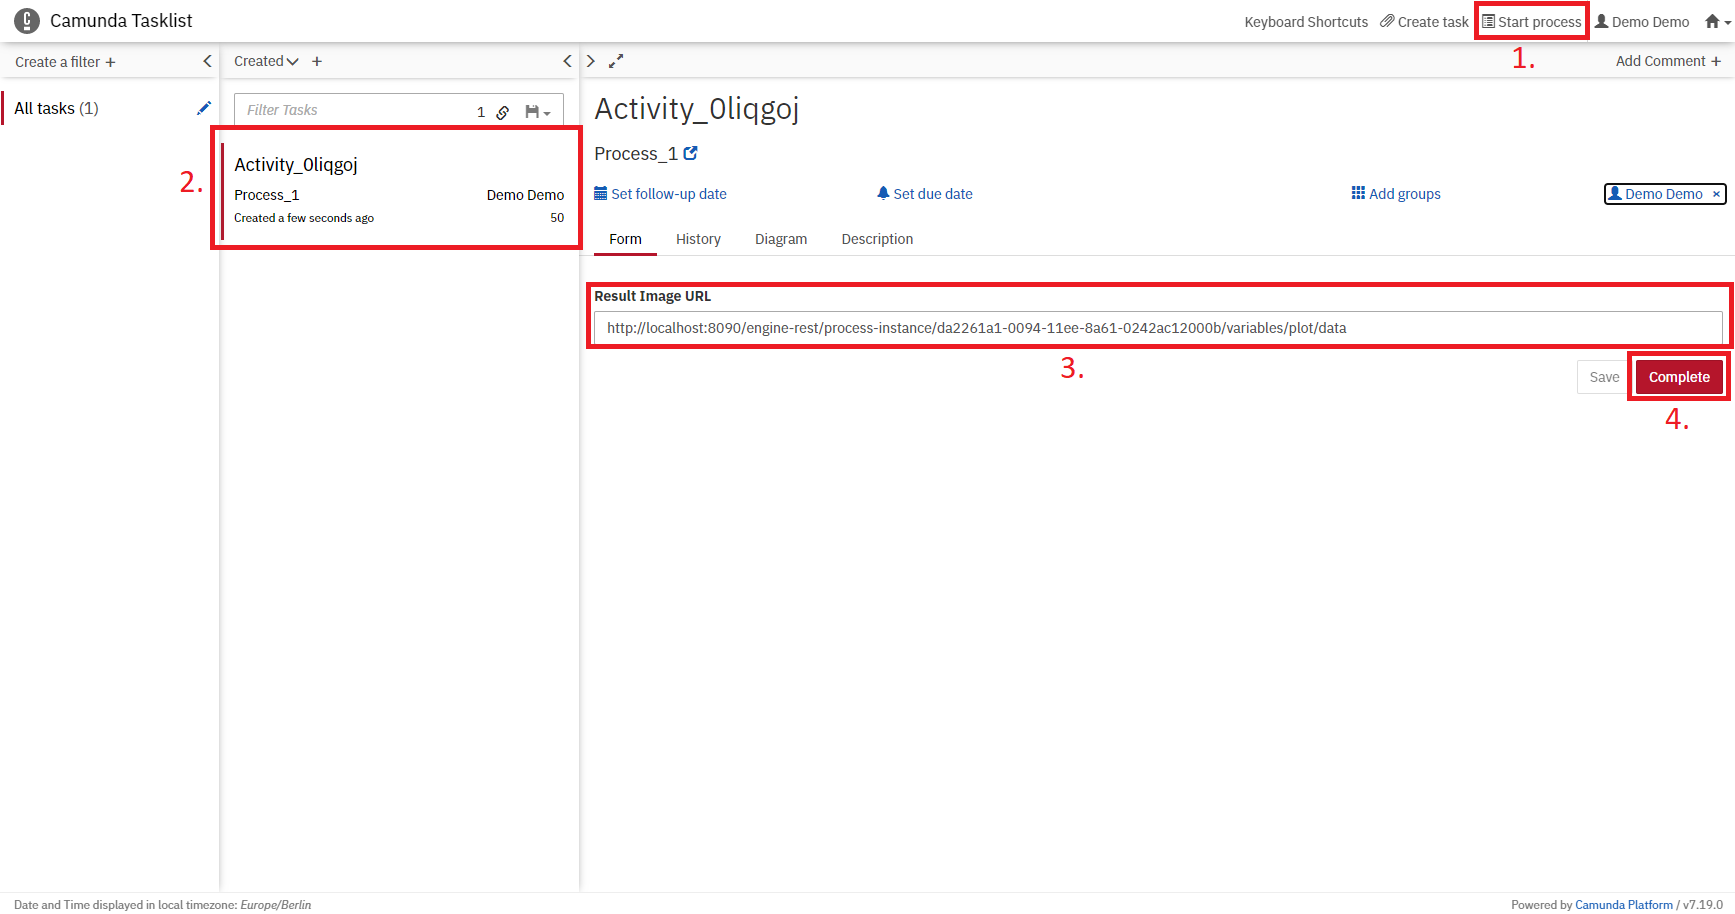
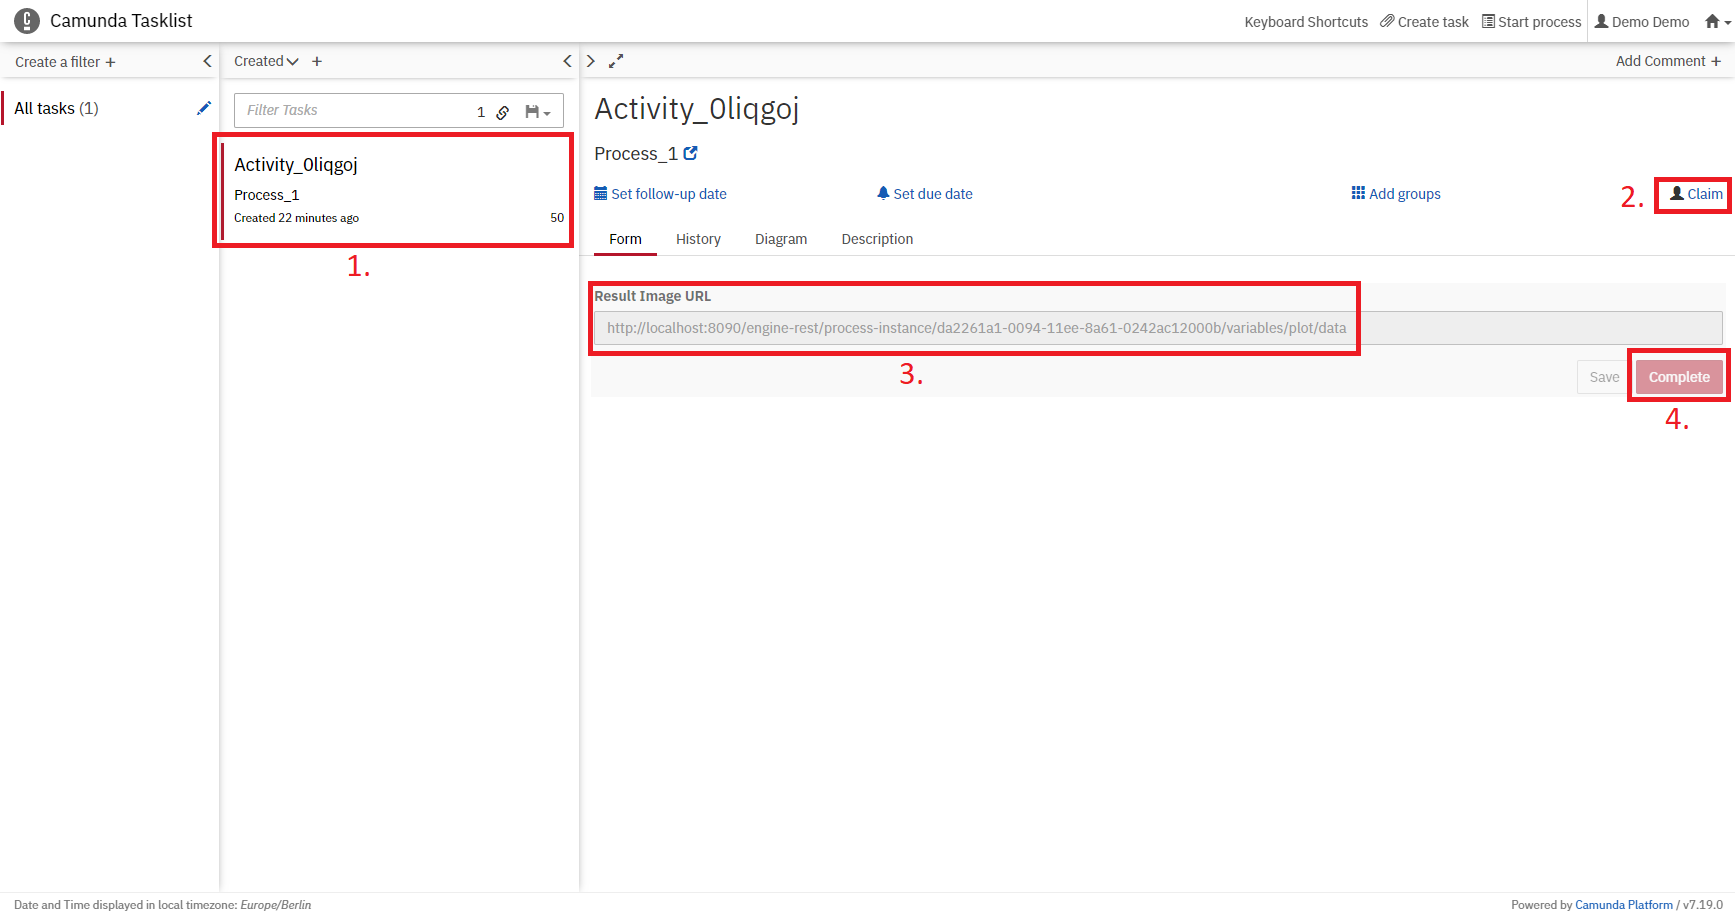
Add description how to retrieve result image

diff --git a/handson.md b/handson.md
@@ -168,9 +168,23 @@ This should show a graphical representation of the uploaded workflow:
 
 To instantiate the workflow, click the home button on the top-right, then select ``Tasklist``.
 Next, click on ``Start process`` on the top-right, select the name of the uploaded workflow, and provide the input parameters as shown below.
-...
+... TODO: values
+
+![Camunda Workflow Instantiate](./resources/images/camunda-input.png)
 
 TODO
+
+![Camunda Workflow Observation](./resources/images/camunda-observe-instance.png)
+
+Wait until the token reaches the final user task, then, switch to the Tasklist.
+Select the task item on the left (1), then click on ``Claim`` to activate the item (2), and download the result plot using the given URL (3).
+Afterwards, click on ``Complete`` to terminate the workflow instance (4).
+
+![Camunda Workflow Observation](./resources/images/camunda-user-task.png)
+
+Finally, open the downloaded image, visualizing the MaxCut solution for the input graph.
+
+![Max Cut Plot](./resources/images/maxcut-plot.png)
 
 ## Part 2: Creating a QuantME Replacement Model
 
